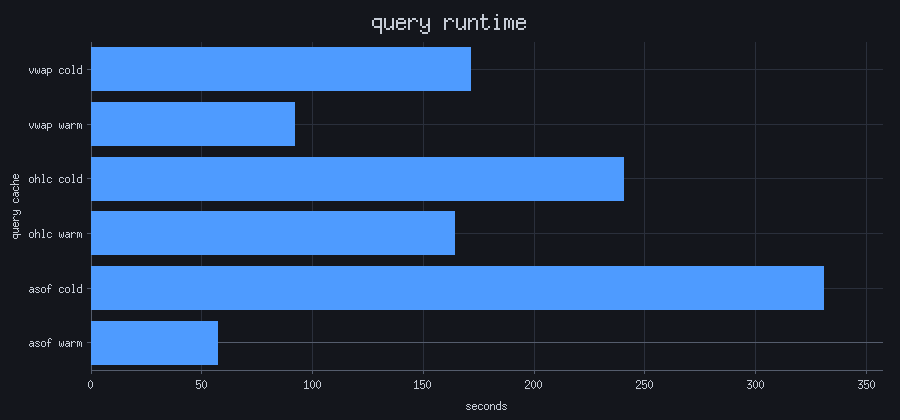
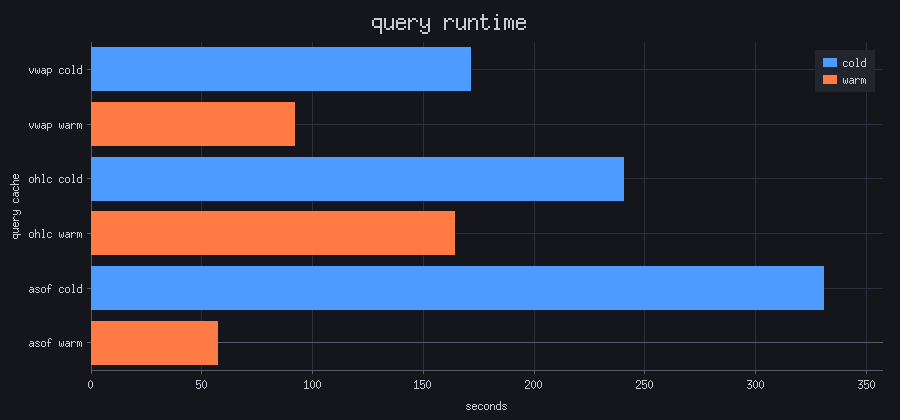
hbar: a keyed table colours its bars by the last key
`.plt.hbar select seconds by query, cache from bench` colours cold and
warm differently and keys the legend on them. One key colours every row
in turn with no legend, since the labels already say which is which.
The legend now builds from either the groups or the series.

Claude-Session: https://claude.ai/code/session_01N8LszUC7RgaThTikiznQgJ

diff --git a/src/layout.rs b/src/layout.rs
@@ -648,6 +648,20 @@ pub fn draw(p: &Plot, c: &mut dyn Canvas) {
         0
     };
     let xfmt = if p.kind == Kind::HBar { TickFmt::Num } else { p.xfmt };
+    // A keyed hbar colours each bar by its group. Only with ONE series: several already
+    // take a colour each, and two colour codes on one bar would say nothing.
+    let by_group = p.kind == Kind::HBar && !p.groups.is_empty() && main.len() == 1;
+    let mut group_names: Vec<&str> = Vec::new();
+    let group_of: Vec<usize> = p
+        .groups
+        .iter()
+        .map(|g| {
+            group_names.iter().position(|n| *n == g).unwrap_or_else(|| {
+                group_names.push(g);
+                group_names.len() - 1
+            })
+        })
+        .collect();
     let (yt, ylab): (Vec<f64>, Vec<String>) = if p.kind == Kind::HBar {
         let want = ((h * 0.8 / (glyph_h * 1.5)) as usize).max(1);
         let every = hbar_rows.div_ceil(want).max(1);
@@ -822,6 +836,10 @@ pub fn draw(p: &Plot, c: &mut dyn Canvas) {
                     if !v.is_finite() || j >= hbar_rows {
                         continue;
                     }
+                    let col = match group_of.get(j) {
+                        Some(g) if by_group => PALETTE[g % PALETTE.len()],
+                        _ => col,
+                    };
                     // Row 0 at the top, so the chart reads in the table's own order.
                     let cy = sy((hbar_rows - 1 - j) as f64) - slot * 0.4 + bh * *i as f64;
                     let (end, base) = (sx(*v), sx(0.0));
@@ -936,19 +954,42 @@ pub fn draw(p: &Plot, c: &mut dyn Canvas) {
         .enumerate()
         .filter(|(_, s)| !s.name.is_empty())
         .collect();
-    // A candlestick's four series are one instrument, not four things to tell apart, and
-    // listing open/high/low/close in a key explains nothing and covers the data.
-    let want_legend =
-        p.kind != Kind::Candle && (named.len() > 1 || (named.len() == 1 && p.series.len() > 1));
-    if want_legend {
+    // What each key row shows: the series' own colour so an entry cannot disagree with what
+    // was drawn, and a swatch shaped like the series rather than a hairline for everything.
+    // A band's is a translucent block; a bar's a solid one; a scatter's a marker.
+    let entries: Vec<(&str, crate::Rgb, Option<&Series>)> = if by_group {
+        // The groups repeat (cold, warm, cold, warm) and are worth a key. Distinct on every
+        // row, they only restate the labels already down the left.
+        if group_names.len() < p.groups.len() {
+            group_names
+                .iter()
+                .enumerate()
+                .map(|(g, n)| (*n, PALETTE[g % PALETTE.len()], None))
+                .collect()
+        } else {
+            Vec::new()
+        }
+    } else if p.kind == Kind::Candle
+        || !(named.len() > 1 || (named.len() == 1 && p.series.len() > 1))
+    {
+        // A candlestick's four series are one instrument, not four things to tell apart,
+        // and listing open/high/low/close in a key explains nothing and covers the data.
+        Vec::new()
+    } else {
+        named
+            .iter()
+            .map(|(i, se)| (se.name.as_str(), se.colour.unwrap_or(PALETTE[i % PALETTE.len()]), Some(*se)))
+            .collect()
+    };
+    if !entries.is_empty() {
         let lh = glyph_h + 4.0 * s as f64;
         let chip = 14.0 * s as f64;
-        let tw = named
+        let tw = entries
             .iter()
-            .map(|(_, se)| c.text_size(&se.name, s).0)
+            .map(|(n, ..)| c.text_size(n, s).0)
             .fold(0.0, f64::max);
         let bw = chip + 6.0 * s as f64 + tw + 2.0 * pad;
-        let bh = lh * named.len() as f64 + pad;
+        let bh = lh * entries.len() as f64 + pad;
         // Put the box in whichever corner the data uses least. A fixed corner sat on top
         // of the series often enough to matter: a rising line and a top-right legend are
         // the single most common chart there is.
@@ -974,15 +1015,10 @@ pub fn draw(p: &Plot, c: &mut dyn Canvas) {
             .min_by_key(|(bx, by)| occupancy(*bx, *by))
             .expect("four corners");
         c.rect(bx, by, bw, bh, th.bg.mix(th.fg, 0.08));
-        for (row, (i, se)) in named.iter().enumerate() {
-            // The series' own colour, so a key entry cannot disagree with what was drawn.
-            let col = se.colour.unwrap_or(PALETTE[i % PALETTE.len()]);
+        for (row, (name, col, se)) in entries.iter().enumerate() {
+            let col = *col;
             let cy = by + pad / 2.0 + lh * row as f64 + lh / 2.0;
-            // The swatch shows what the series LOOKS like: a bar chart keyed by hairlines
-            // makes the reader match colours instead of shapes.
-            // A band's swatch is a translucent block, because that is what it looks like on
-            // the chart; a line swatch would claim it was a line.
-            if !se.lo.is_empty() {
+            if let Some(se) = se.filter(|se| !se.lo.is_empty()) {
                 c.polygon(
                     &[
                         (bx + pad, cy - lh * 0.3),
@@ -997,19 +1033,19 @@ pub fn draw(p: &Plot, c: &mut dyn Canvas) {
                     c.line((bx + pad, cy), (bx + pad + chip, cy), col, line_w);
                 }
             } else {
-                match if se.overlay { Kind::Line } else { p.kind } {
-                Kind::Bar | Kind::HBar | Kind::Hist => {
-                    c.rect(bx + pad, cy - lh * 0.25, chip, lh * 0.5, col)
-                }
-                Kind::Scatter => {
-                    c.marker((bx + pad + chip / 2.0, cy), (1.8 * s as f64).max(1.5), col)
-                }
-                _ => c.line((bx + pad, cy), (bx + pad + chip, cy), col, line_w),
+                match if se.is_some_and(|se| se.overlay) { Kind::Line } else { p.kind } {
+                    Kind::Bar | Kind::HBar | Kind::Hist => {
+                        c.rect(bx + pad, cy - lh * 0.25, chip, lh * 0.5, col)
+                    }
+                    Kind::Scatter => {
+                        c.marker((bx + pad + chip / 2.0, cy), (1.8 * s as f64).max(1.5), col)
+                    }
+                    _ => c.line((bx + pad, cy), (bx + pad + chip, cy), col, line_w),
                 }
             }
             c.text(
                 (bx + pad + chip + 6.0 * s as f64, cy),
-                &se.name,
+                name,
                 th.fg,
                 TextStyle::new(Align::Start, Align::Middle, s),
             );
@@ -1252,6 +1288,37 @@ mod tests {
         let widths: Vec<usize> = (0..200).map(run).filter(|n| *n > 0).collect();
         assert!(widths.len() > 2, "no bars drawn");
         assert!(widths[0] > 5 * widths[widths.len() - 1], "row 0 is not the long bar on top: {widths:?}");
+    }
+
+    /// A keyed hbar colours each bar by its group, so cold and warm rows come out in two
+    /// palette colours rather than one.
+    #[test]
+    fn hbar_groups_colour_the_bars() {
+        let p = Plot {
+            kind: Kind::HBar,
+            series: vec![Series {
+                name: "v".into(),
+                x: vec![],
+                y: vec![5.0, 5.0, 5.0, 5.0],
+                overlay: false,
+                ..Default::default()
+            }],
+            xcats: ["a", "b", "c", "d"].iter().map(|s| s.to_string()).collect(),
+            groups: ["cold", "warm", "cold", "warm"].iter().map(|s| s.to_string()).collect(),
+            xfmt: TickFmt::Cat,
+            width: 400,
+            height: 200,
+            ..Default::default()
+        };
+        let r = p.raster();
+        let count = |col: Rgb| {
+            r.bytes()
+                .chunks(3)
+                .filter(|px| Rgb(px[0], px[1], px[2]) == col)
+                .count()
+        };
+        assert!(count(PALETTE[0]) > 100, "no bars in the first colour");
+        assert!(count(PALETTE[1]) > 100, "no bars in the second colour");
     }
 
     /// A panic here takes the whole session down, so mismatched and empty series must be

diff --git a/src/lib.rs b/src/lib.rs
@@ -291,6 +291,10 @@ pub struct Plot {
     /// it is the summary rather than the drawing.
     pub corr: Vec<Vec<f64>>,
     pub bins: usize,
+    /// `HBar` only: a group label per row, from the last key of a keyed table. Bars are
+    /// coloured by group, and when the groups repeat the legend names them instead of the
+    /// series: cold against warm, rather than a key that lists every row.
+    pub groups: Vec<String>,
     pub theme: Theme,
     /// Integer glyph scale. `0` derives one from the image width, which is only a guess:
     /// the caller should pass the terminal's, via [`kitty::Metrics::font_scale`].
@@ -315,6 +319,7 @@ impl Default for Plot {
             alpha: Vec::new(),
             corr: Vec::new(),
             bins: 30,
+            groups: Vec::new(),
             theme: Theme::dark(),
             font: 0,
         }

diff --git a/src/kapi.rs b/src/kapi.rs
@@ -238,6 +238,7 @@ pub unsafe fn plot_from_spec(spec: K) -> Result<Plot, String> {
         beta: field(spec, "beta").map_or_else(Vec::new, |v| series_data(v)),
         alpha: field(spec, "alpha").map_or_else(Vec::new, |v| series_data(v)),
         corr: field(spec, "corr").map_or_else(Vec::new, |v| series_data(v)),
+        groups: field(spec, "groups").map_or_else(Vec::new, |v| strings(v)),
         bins: field_nums(spec, "bins")
             .first()
             .copied()

diff --git a/README.md b/README.md
@@ -32,7 +32,7 @@ examples, and runs from where it lands without installing.
 .plt.line    select date, close, vwap from trade
 .plt.scatter select px, size from trade
 .plt.bar     select cnt:count i by sym from trade
-.plt.hbar    select query, runtime, elapsed from bench       / one bar per row, labelled
+.plt.hbar    select seconds by query, cache from bench       / one bar per row, coloured by cache
 .plt.hist    exec ret from returns
 .plt.candle  select time,open,high,low,close by 5 xbar time.minute from trade
 .plt.by[`scatter; `sym; select sym,close,vwap from trade]   / one series per group
@@ -48,7 +48,7 @@ examples, and runs from where it lands without installing.
 | ![a bar chart keyed by ticker symbol](docs/img/bar.png) | ![two value columns as side-by-side bar groups](docs/img/bar-grouped.png) |
 | `.plt.bar select last close by ticker from trade` | two value columns, side by side |
 | ![horizontal bars, one per benchmark row, labelled by query and runtime](docs/img/hbar.png) | |
-| `.plt.hbar select query, runtime, elapsed from bench` | text columns label the row, numeric ones are the bars |
+| `.plt.hbar select seconds by query, cache from bench` | text columns label the row, numeric ones are the bars; keyed, the last key colours them |
 | ![OHLC candlesticks over a clock axis](docs/img/candle.png) | ![three scatter clusters, one per ticker, each its own colour](docs/img/clusters.png) |
 | `.plt.candle select open,high,low,close by 5 xbar time.minute from trade` | ``.plt.by[`scatter; `sym; t]`` |
 
